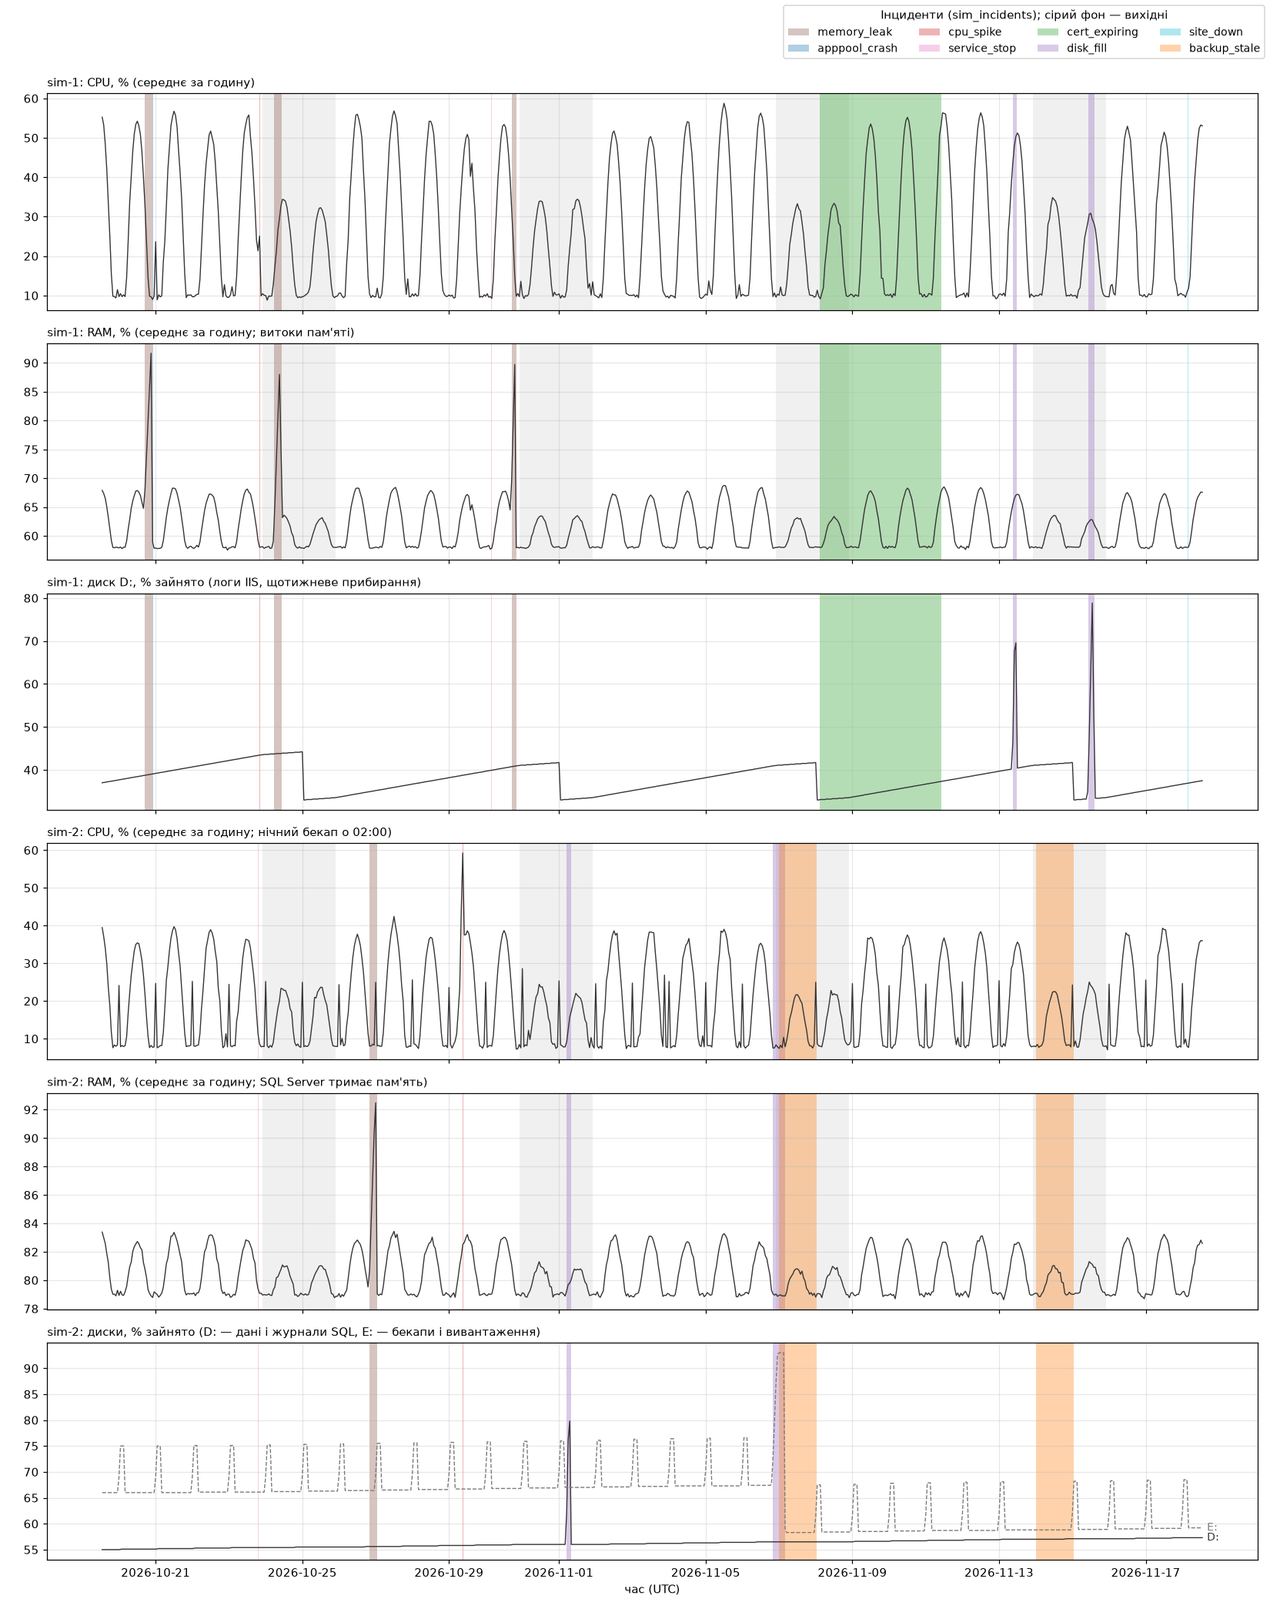
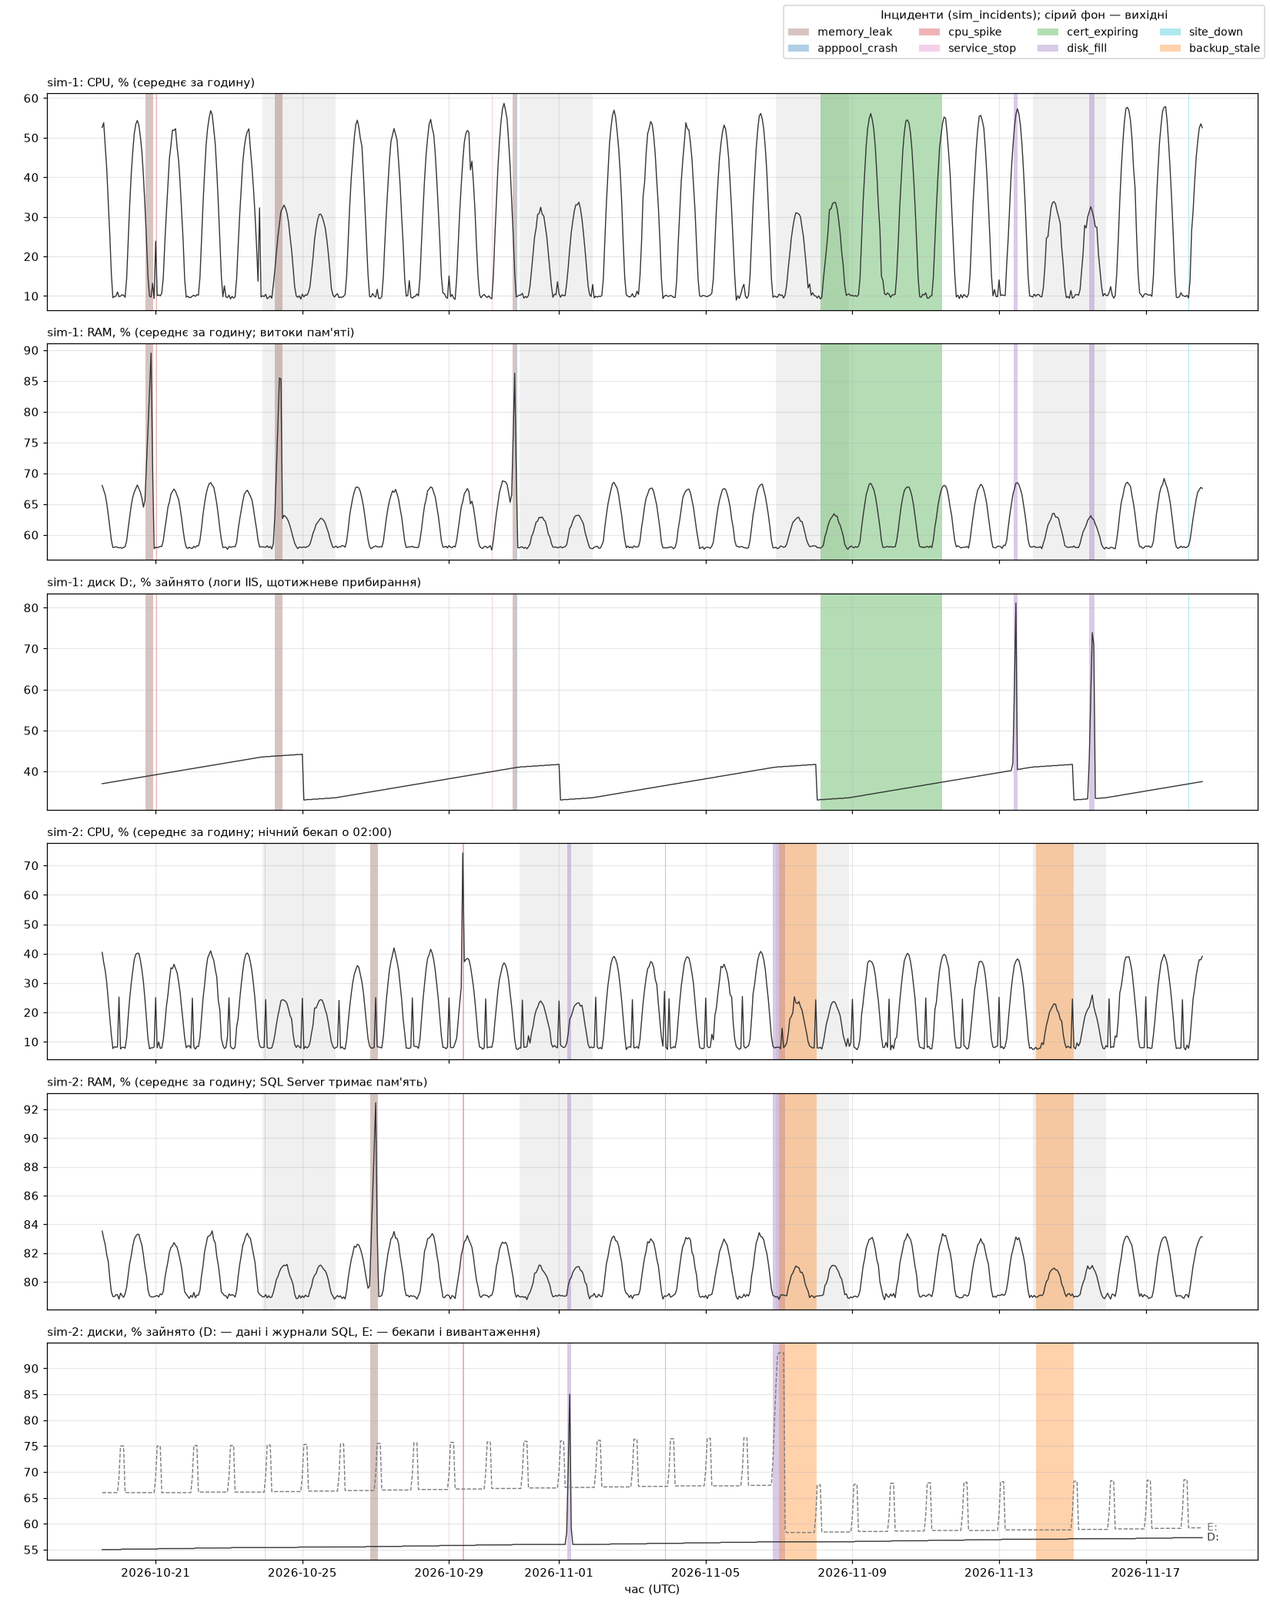
Інвентар сервера, топ процесів за CPU і RAM, одна частота збору (крок 1.5)
- servers.inventory_json: сайт -> пул, служба -> exe
- process_snapshots: топ-5 за CPU + топ-5 за RAM (агент і симулятор)
- розміри тек раз на 5 хв; однаковий розклад для агента й симулятора
- CLAUDE.md: принципи про стандартні засоби Windows і нові дані

diff --git a/simulator/simulator.py b/simulator/simulator.py
@@ -344,7 +344,7 @@ def subtract_missing_processes(state: ServerState, values: dict) -> None:
 
 
 def build_processes(state: ServerState, values: dict, rng: random.Random) -> list[dict]:
-    """Топ-5 процесів за CPU з урахуванням зупинених служб і змін від сценаріїв."""
+    """Топ-5 процесів за CPU + топ-5 за RAM з урахуванням зупинених служб і змін від сценаріїв."""
     total = values["cpu_pct"]
     procs = []
     for p in state.profile["processes"]:
@@ -382,8 +382,10 @@ def build_processes(state: ServerState, values: dict, rng: random.Random) -> lis
                 proc["cpu_pct"] *= factor
     for proc in procs:
         proc["cpu_pct"] = min(proc["cpu_pct"], total)
-    procs.sort(key=lambda pr: pr["cpu_pct"], reverse=True)
-    return procs[:5]
+    # Як у агента: топ-5 за CPU і топ-5 за RAM, без повторів
+    top_cpu = sorted(procs, key=lambda pr: pr["cpu_pct"], reverse=True)[:5]
+    top_ram = sorted(procs, key=lambda pr: pr["ram_mb"], reverse=True)[:5]
+    return top_cpu + [p for p in top_ram if p not in top_cpu]
 
 
 # ---------------------------------------------------------------------------
@@ -411,14 +413,27 @@ INSERT_SQL = {
 }
 
 
+def build_inventory(prof: dict) -> str:
+    """Інвентар сервера в тому вигляді, який збере справжній агент:
+    сайти з пулами (appcmd list app) і служби з exe (Win32_Service)."""
+    inventory = {
+        "sites": [{"name": s["name"], "app_pool": s["app_pool"]} for s in prof.get("sites", [])],
+        "services": [{"name": s["name"], "exe": s["exe"]} for s in prof["services"] if s["kind"] == "service"],
+    }
+    return json.dumps(inventory, ensure_ascii=False)
+
+
 def ensure_servers(profiles: dict) -> dict[str, int]:
-    """Створює записи серверів sim-* (якщо їх немає) і повертає {назва: id}."""
+    """Створює записи серверів sim-* (якщо їх немає), оновлює опис та інвентар
+    і повертає {назва: id}."""
     ids = {}
     with db_session() as conn:
         for name, prof in profiles["servers"].items():
             conn.execute("INSERT OR IGNORE INTO servers (name, kind, description) VALUES (?, 'sim', ?)",
                          (name, prof["description"]))
-            conn.execute("UPDATE servers SET description = ? WHERE name = ?", (prof["description"], name))
+            conn.execute("UPDATE servers SET description = ?, inventory_json = ?, inventory_updated_at = ? "
+                         "WHERE name = ?",
+                         (prof["description"], build_inventory(prof), fmt(datetime.now(timezone.utc)), name))
             ids[name] = conn.execute("SELECT id FROM servers WHERE name = ?", (name,)).fetchone()["id"]
     return ids
 
@@ -548,8 +563,8 @@ class Simulation:
                 self.buffers["service_status"].append((ts, sid, svc["name"], svc["kind"], status))
                 self.last_status[name][svc["name"]] = status
 
-        # 10. Теки — щогодини
-        if minute_index % 60 == 0:
+        # 10. Теки — раз на 5 хв
+        if minute_index % 5 == 0:
             for path, size in state.folder_gb.items():
                 self.buffers["folder_sizes"].append((ts, sid, path, round(size, 2)))
 
@@ -1174,7 +1189,7 @@ def incident_details(incident_id: int) -> None:
         before_ts, before = snapshot(fmt(parse(start) - timedelta(hours=1)))
         peak_ts, top = snapshot(peak, not_before=start)
         before_by_key = {(p["name"], p["app_pool"]): p for p in before}
-        print(f"\n[Топ-5 процесів на піку (знімок {local(peak_ts) if peak_ts else '—'}) "
+        print(f"\n[Процеси на піку — топ-5 CPU + топ-5 RAM (знімок {local(peak_ts) if peak_ts else '—'}) "
               f"проти години до інциденту (знімок {local(before_ts) if before_ts else '—'})]")
         print(f"  {'процес':<16}{'пул':<10}{'PID':>7}{'CPU, %':>9}{'(до)':>7}{'RAM, МБ':>10}{'(до)':>9}")
         for p in top:
@@ -1194,9 +1209,9 @@ def incident_details(incident_id: int) -> None:
             " MAX(size_gb) AS max_gb "
             "FROM folder_sizes f WHERE server_id=? AND ts>=? AND ts<? GROUP BY path",
             (start, sid, start, end)).fetchall()
-        print("\n[Теки: приріст під час інциденту (знімки щогодини)]")
+        print("\n[Теки: приріст під час інциденту (знімки раз на 5 хв)]")
         if not folders:
-            print("  інцидент коротший за годину — погодинних знімків тек у ньому немає")
+            print("  у вікні інциденту немає знімків тек")
         growth = sorted(((f["path"], f["before_gb"] or 0, f["max_gb"]) for f in folders),
                         key=lambda x: x[2] - x[1], reverse=True)
         for path, before_gb, max_gb in growth[:3]:

diff --git a/agent/agent.py b/agent/agent.py
@@ -169,13 +169,16 @@ def collect_sample() -> dict[str, list[dict]]:
             "ram_mb": round(ram_mb, 1),
             "app_pool": _app_pool_name(proc),
         })
-    # Сортуємо за CPU, а за рівного CPU — за пам'яттю
-    process_rows.sort(key=lambda row: (row["cpu_pct"], row["ram_mb"]), reverse=True)
+    # Топ-5 за CPU і топ-5 за RAM, без повторів: так у знімок потрапляє
+    # і процес, що вантажить процесор, і процес, у якого росте пам'ять
+    top_cpu = sorted(process_rows, key=lambda row: row["cpu_pct"], reverse=True)[:TOP_PROCESSES]
+    top_ram = sorted(process_rows, key=lambda row: row["ram_mb"], reverse=True)[:TOP_PROCESSES]
+    top = top_cpu + [row for row in top_ram if row not in top_cpu]
 
     return {
         "metrics": [metrics_row],
         "disk_usage": collect_disk_usage(ts),
-        "process_snapshots": process_rows[:TOP_PROCESSES],
+        "process_snapshots": top,
     }
 
 
@@ -208,7 +211,7 @@ def print_sample(sample: dict[str, list[dict]]) -> None:
     for d in sample["disk_usage"]:
         print(f"  {d['drive']:<6}{d['used_pct']:>12}{d['free_gb']:>12}{d['total_gb']:>12}")
 
-    print(f"\n[process_snapshots] топ-{TOP_PROCESSES} за CPU")
+    print(f"\n[process_snapshots] топ-{TOP_PROCESSES} за CPU + топ-{TOP_PROCESSES} за RAM")
     print(f"  {'Процес':<28}{'PID':>8}{'CPU, %':>9}{'RAM, МБ':>10}  Пул IIS")
     for p in sample["process_snapshots"]:
         print(f"  {p['name'][:27]:<28}{p['pid']:>8}{p['cpu_pct']:>9}{p['ram_mb']:>10}  {_fmt(p['app_pool'])}")

diff --git a/core/db.py b/core/db.py
@@ -30,10 +30,14 @@ SCHEMA = """
 -- ===== Сирі дані (пишуть агент, симулятор, імпорт CSV) =====
 
 CREATE TABLE IF NOT EXISTS servers (
-    id          INTEGER PRIMARY KEY AUTOINCREMENT,
-    name        TEXT NOT NULL UNIQUE,           -- наприклад sim-1, my-pc
-    kind        TEXT NOT NULL CHECK (kind IN ('real', 'sim')),
-    description TEXT
+    id                   INTEGER PRIMARY KEY AUTOINCREMENT,
+    name                 TEXT NOT NULL UNIQUE,  -- наприклад sim-1, my-pc
+    kind                 TEXT NOT NULL CHECK (kind IN ('real', 'sim')),
+    description          TEXT,
+    -- Інвентар сервера: сайт -> пул IIS (appcmd list app) і служба -> exe
+    -- (Win32_Service). Лише поточний стан, без історії
+    inventory_json       TEXT,
+    inventory_updated_at TEXT
 );
 
 CREATE TABLE IF NOT EXISTS metrics (

diff --git a/docs/decisions.md b/docs/decisions.md
@@ -190,12 +190,28 @@
   норма); спільна модель на абсолютних значеннях вивчила б sim-1 і sim-2,
   а не поняття «аномалія», і не працювала б на новому сервері.
 
-## Симулятор: частота запису в історії (2026-11-18)
-- **Обрали:** метрики, диски, HTTP і порт SQL — щохвилини; процеси і служби —
-  раз на 5 хв (і одразу при зміні стану); теки, сертифікат, бекап — щогодини;
-  події — коли стаються.
-- **Чому:** так поводяться реальні агенти: дорогі заміри (розмір тек) рідше,
-  дешеві частіше; ~450 тис. рядків за 30 днів замість кількох мільйонів.
+## Частота збору — однакова для агента і симулятора (2026-11-18)
+- **Обрали:** щохвилини — метрики, диски, HTTP, порт SQL; раз на 5 хв —
+  процеси, служби (і одразу при зміні стану), розміри тек; щогодини —
+  сертифікат і бекап; події — коли стаються. Без окремих режимів.
+- **Альтернативи:** теки щогодини (дешевше); частіші заміри лише в живому режимі.
+- **Чому:** при щогодинних замірах тек 10-хвилинний `disk_fill` на демо
+  міг би не потрапити в жоден знімок; один розклад для всіх — простіше
+  і чесніше (історія виглядає так само, як живі дані).
+
+## Процеси: топ-5 за CPU + топ-5 за RAM (2026-11-18)
+- **Обрали:** у кожному знімку — топ-5 за CPU і топ-5 за RAM без повторів.
+- **Альтернативи:** лише топ-5 за CPU; окремий список процесів, за якими стежимо.
+- **Чому:** процес з витоком пам'яті може мати мало CPU і не потрапити в
+  топ за CPU; окремий список ускладнив би агент без потреби.
+
+## Інвентар сервера (2026-11-18)
+- **Обрали:** колонка `servers.inventory_json` (+ час оновлення): сайт → пул
+  (`appcmd list app`) і служба → exe (`Win32_Service`); лише поточний стан.
+- **Альтернативи:** окрема таблиця з історією змін; брати зв'язки з
+  `profiles.yaml` (справжній агент такого файлу не має).
+- **Чому:** без цього бот не скаже, який сайт ляже при падінні пулу і який
+  процес належить службі; історія змін для наших питань не потрібна.
 
 ## Симулятор: значення checks.ok (2026-11-18)
 - **Обрали:** `ok` — результат самої перевірки: HTTP — код 200 і відповідь

diff --git a/CLAUDE.md b/CLAUDE.md
@@ -92,9 +92,13 @@
 - Формат сирих даних визначає те, що реально збирає агент (psutil);
   симулятор імітує саме цей формат. Решта системи не розрізняє реальні
   та симульовані дані (симульовані сервери мають імена `sim-*`).
-- Симулятор генерує лише ті дані, які може зібрати справжній агент,
-  і в тому самому вигляді. Тексти подій — як у справжньому журналі Windows
-  (наприклад, 3041 не містить причини; причину SQL Server пише окремою подією).
+- Агент збирає лише те, що дають стандартні засоби Windows (psutil,
+  PowerShell, appcmd, CIM). Симулятор генерує лише ці дані і в тому самому
+  вигляді. Тексти подій — як у справжньому журналі Windows (наприклад, 3041
+  не містить причини; причину SQL Server пише окремою подією). Зв'язки між
+  даними (який процес вантажить, яка тека росте) шукає бот сам.
+- Нову таблицю, колонку чи тип даних додаємо лише тоді, коли без них бот
+  не може відповісти на питання з «Тесту діалогу» (`docs/milestones.md`).
 - `sim_incidents` (разом з `params_json`) — лише «ключ відповідей» для
   перевірки. Аналізатор, бот і ML ніколи його не читають; читають тільки
   `--details` / `--plot-incident` симулятора, тести і скрипти метрик якості.
@@ -141,7 +145,9 @@ docs/         tz.pdf (лише локально), milestones.md, progress.md, de
 
 Сирі дані (пишуть агент, симулятор, імпорт CSV):
 
-- `servers` — id, name, kind (real/sim), description
+- `servers` — id, name, kind (real/sim), description, inventory_json,
+  inventory_updated_at (інвентар: сайт → пул IIS з `appcmd list app`,
+  служба → exe з `Win32_Service`; лише поточний стан)
 - `metrics` — ts, server_id, cpu_pct, ram_pct, disk_read_mbs, disk_write_mbs,
   net_in_mbs, net_out_mbs, app_response_ms, app_error_pct, source
 - `disk_usage` — ts, server_id, drive, used_pct, free_gb, total_gb

diff --git a/docs/milestones.md b/docs/milestones.md
@@ -92,9 +92,7 @@
   `--duration <хв>` задає тривалість (для демо `disk_fill` і `memory_leak`
   ~10 хв); `backup_stale` у живому режимі діє одразу (вік бекапу > 24 год
   і подія 3041 зараз), а не чекає 02:00. `--pool <назва>` для
-  `apppool_crash` (на демо — `SitePool`, щоб ліг сайт). Необов'язково:
-  `--service <назва>` для `service_stop` (наприклад, `MSSQLSERVER` —
-  RAM sim-2 різко падає, `W3SVC` — сайт лягає).
+  `apppool_crash` (на демо — `SitePool`, щоб ліг сайт).
   У звичайному режимі симулятор пише нормальні перевірки в `checks`
   (HTTP 200, сертифікат дійсний ще ~200 днів, бекап молодший за 24 год),
   щоб сценаріям було від чого відхилятися.
@@ -284,7 +282,11 @@
   `X-API-Key` (`INGEST_API_KEY`), `GET /status`, `GET /alerts`; запуск
   `python -m uvicorn api.app:app --port 8000`. Агент
   `python -m agent.agent` (від імені адміністратора) надсилає дані лише
-  через `/ingest`.
+  через `/ingest`. Частоти — як у симулятора: щохвилини метрики, диски,
+  HTTP, порт SQL; раз на 5 хв процеси (топ-5 CPU + топ-5 RAM), служби
+  (і одразу при зміні), розміри тек; щогодини сертифікат і бекап.
+  Інвентар (`servers.inventory_json`): сайт → пул з `appcmd list app`,
+  служба → exe з `Win32_Service`.
 - **Готово, коли:** на дашборді з'явився сервер `my-pc` з реальними CPU, RAM
   і дисками, топом процесів, розмірами тек, подіями журналу і результатами
   перевірок; його дані проходять через той самий ETL без жодних змін у коді

diff --git a/docs/er.md b/docs/er.md
@@ -9,6 +9,8 @@ erDiagram
         TEXT name
         TEXT kind
         TEXT description
+        TEXT inventory_json
+        TEXT inventory_updated_at
     }
     metrics {
         TEXT ts
